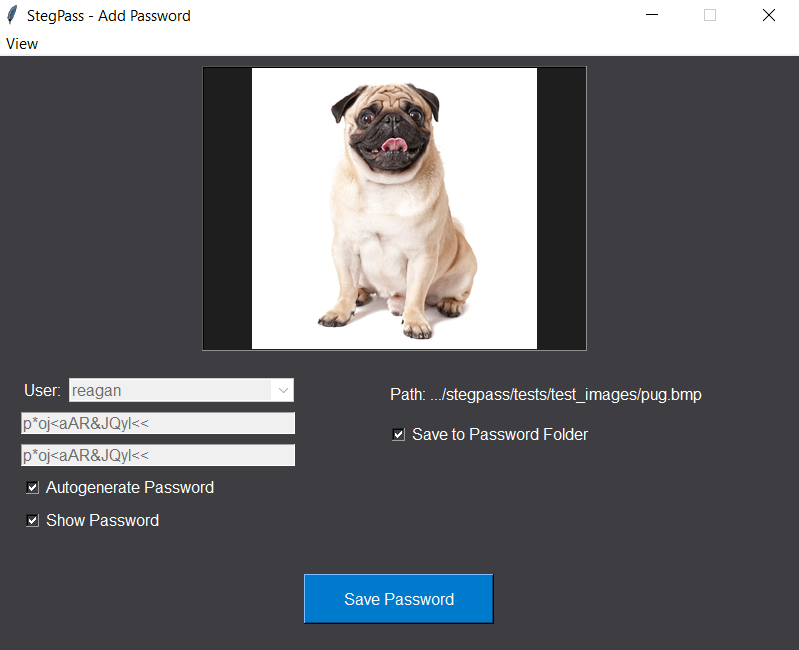
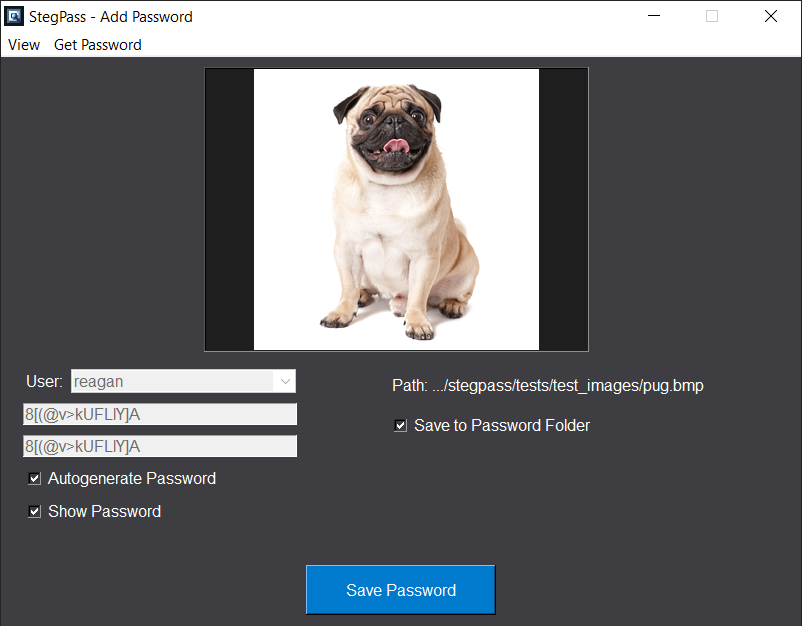
added changelog, and get password to the gui interface.

diff --git a/app/app/gui.py b/app/app/gui.py
@@ -7,11 +7,14 @@ app.py - Main GUI for the StegPass application
 import tkinter as tk
 from tkinter import ttk
 from tkinterdnd2 import TkinterDnD
+from threading import Thread
 
 # ? Project Imports
 from app.widgets.theme import THEME
 from app.pages.add_user import AddUserWindow
 from app.pages.add_password import AddPasswordWindow
+from app.utils.utils import get_path_to_icon
+from app.get_password import open_password_form
 
 class ManageUserWindow(tk.Frame):
     def __init__(self, master, **kwargs):
@@ -30,6 +33,7 @@ class Application(TkinterDnD.Tk):
         self.title("StegPass - Save Password")
         self.geometry(f"{THEME.WIDTH}x{THEME.HEIGHT}")
         self.resizable(False, False)
+        self.iconbitmap(get_path_to_icon())
         
         # Set DPI awareness (makes the window look better on high resolution screens)
         try:
@@ -39,15 +43,16 @@ class Application(TkinterDnD.Tk):
             pass
 
         # Create a menu bar
-        menu_bar = tk.Menu(self)
-        self.config(menu=menu_bar)
+        self.menu_bar = tk.Menu(self)
+        self.config(menu=self.menu_bar)
 
         # Add options to the menu bar
-        file_menu = tk.Menu(menu_bar, tearoff=0)
-        menu_bar.add_cascade(label="View", menu=file_menu)
+        file_menu = tk.Menu(self.menu_bar, tearoff=0)
+        self.menu_bar.add_cascade(label="View", menu=file_menu)
         file_menu.add_command(label="Add User", command=self.show_add_user_page)
         file_menu.add_command(label="Manage User", command=self.show_manage_user_page)
         file_menu.add_command(label="Add Password", command=self.show_add_password_page)
+        self.menu_bar.add_command(label="Get Password", command=self.handle_get_password)
 
         # Create frames for each page
         self.pages = {}
@@ -64,7 +69,7 @@ class Application(TkinterDnD.Tk):
 
         # Place each frame in the same location; only one will be visible at a time
         for page in self.pages.values():
-            page.place(x=0, y=0, width=800, height=600)
+            page.place(x=0, y=0, width=THEME.WIDTH, height=THEME.HEIGHT)
 
         # Show the initial page
         self.show_add_user_page()
@@ -77,6 +82,16 @@ class Application(TkinterDnD.Tk):
 
     def show_add_password_page(self):
         self._show_page('add_password')
+    
+    def handle_get_password(self):
+        task_thread = Thread(target=open_password_form, args=(self.on_get_password_start, self.on_get_password_end))
+        task_thread.start()
+    
+    def on_get_password_start(self):
+        self.menu_bar.entryconfig("Get Password", state="disabled")
+    
+    def on_get_password_end(self):
+        self.menu_bar.entryconfig("Get Password", state="normal")
 
     def _show_page(self, page_name):
         for name, page in self.pages.items():

diff --git a/app/app/get_password.py b/app/app/get_password.py
@@ -9,11 +9,39 @@ import pyperclip
 import time
 from win10toast import ToastNotifier
 import ctypes
+from tkinter import filedialog
 
 # ? Project Imports
 from app.utils.utils import is_valid_sha256_hash, run_subprocess, fork_to_login, get_path_to_icon, show_error_message
 from app.utils.utility_fetcher import TargetType, UtilityFetcher
 from app.utils.config import SP_BUILD_TYPE
+
+def open_password_form(on_start, on_end):
+    """ Opens a file dialog to select an image file and retrieves a password from it
+
+    Args:
+        on_start (func): The function to call when the password retrieval process starts
+        on_end (func): The function to call when the password retrieval process ends
+    """
+    
+    # Create a file dialog to select an image file
+    on_start()
+    image_path = filedialog.askopenfilename(defaultextension=".bmp", filetypes=[("BMP files", "*.bmp")])
+    
+    if not image_path:
+        on_end()
+        return
+    
+    # Try to get the password from the image file    
+    exit_code, output = get_password(image_path)
+    on_end()
+    
+    if exit_code == 0:
+        notify_user(output)
+    elif exit_code == 4:
+        show_error_message("Could not recover password.")
+    else:
+        show_error_message(output)
 
 def get_password(image_path, user_hash = None) -> tuple[int, str]:
     """ Retrieves a password from an image file

diff --git a/scripts/release-app/create_release.py b/scripts/release-app/create_release.py
@@ -180,6 +180,15 @@ def save_release_config(release, config):
     with open(save_path, "w") as f:
         config.write(f)
         
+def move_changelog(release):
+    """ Moves the changelog to the release folder.
+
+    Args:
+        release (str): The path to the release folder.
+    """
+    print("Moving changelog to release folder...")
+    shutil.copy2(os.path.join(ROOT_DIR, 'CHANGELOG.md'), os.path.join(release, 'CHANGELOG.md'))
+        
 def copy_icon(release):
     """ Copies the icon to the release folder.
 
@@ -199,6 +208,7 @@ if __name__ == '__main__':
     copy_utility_files(release_dir)
     save_release_config(release_dir, config)
     copy_icon(release_dir)
+    move_changelog(release_dir)
     
 else:
     print('create_release.py should be run as the main script.')

diff --git a/app/app/login.py b/app/app/login.py
@@ -8,7 +8,7 @@ from tkinterdnd2 import TkinterDnD
 # Project Imports
 from app.widgets.theme import THEME
 from app.utils.user_manager import UserManager
-from app.utils.utils import sha256_hash, show_error_message
+from app.utils.utils import sha256_hash, show_error_message, get_path_to_icon
 
 class Application(TkinterDnD.Tk):
     def __init__(self, *args, **kwargs):
@@ -17,6 +17,7 @@ class Application(TkinterDnD.Tk):
         self.geometry(f"{450}x{225}")
         self.resizable(False, False)
         self.config(bg=THEME.BG)
+        self.iconbitmap(get_path_to_icon())
         
         # Set DPI awareness (makes the window look better on high resolution screens)
         try:

diff --git a/app/app/pages/add_password.py b/app/app/pages/add_password.py
@@ -21,7 +21,7 @@ class AddPasswordWindow(tk.Frame):
 
         # Show the PasswordForm below the drag and drop widget
         self.password_form = PasswordForm(self, bg='lightgrey')
-        self.password_form.place(x=THEME.WINDOW_PADDING, y=half_height + (2 * THEME.WINDOW_PADDING), width=THEME.WIDTH - (2 * THEME.WINDOW_PADDING), height=half_height)
+        self.password_form.place(x=THEME.WINDOW_PADDING, y=half_height + (THEME.WINDOW_PADDING), width=THEME.WIDTH - (2 * THEME.WINDOW_PADDING), height=half_height)
 
     def update_image_name(self, file_path):
         self.password_form.update_image_path(file_path)

diff --git a/README.md b/README.md
@@ -1,6 +1,6 @@
 <div style="display: flex; align-items: center;">
-    <h1 style="margin-right: 20px; margin-bottom: 0;">StegPass - Password Manager</h1>
     <img src="docs/logo.png" alt="Logo" width="75" style="margin-bottom: 0;">
+    <h1 style="margin-left: 20px; margin-bottom: 0;">StegPass - Password Manager</h1>
 </div>
 
 ## What is it?
@@ -21,17 +21,16 @@ methods to hide your passwords, they cannot be extracted through any standard se
 ### 2. Simplified Storage
 
 By using stegonography to store your passwords, you can basically store your passwords wherever you want. Your
-passwords aren't store in some clustered database, making them easily accessible to you at any time. Moreover,
+passwords aren't stored in some clustered database, making them easily accessible to you at any time. Moreover,
 this decentralized approach allows you to transfer your passwords with no concerns about the medium by which 
 you do it. Send your passwords in email, store them on the cloud, at the end of the day, its just an image file.
 
 ### 3. It's Fun
 
 Add personality to your passwords, choose images that resonate with you and your relationship with whatever service
-you are storing passwords for. For me, I store my Facebook password in an Mark Zuckerburg selfie. Moreover, this
-adds a unique layer of security to your passwords, because perhaps only you can associate some image with some
-service. Even if a hacker could find your password in the image file, they would have no idea what account and
-website it is for (assuming those are omitted from the image and filename).
+you are storing passwords for. Moreover, this adds a unique layer of security to your passwords, because perhaps 
+only you can associate some image with some service. Even if a hacker could find your password in the image file, 
+they would have no idea what account and website it is for (assuming those are omitted from the image and filename).
 
 ## How does it work?
 
@@ -46,10 +45,9 @@ the operating system won't even detect these changes as the file size typically 
     <img src="docs/example_usage1.png" alt="Example Usage 1" width="500" style="margin-bottom: 0;">
 </div>
 
-After a password is stored in an image, you can recover it at any time by using our command line tool (we are quickly creating
-a simplified solution). This will securely copy the password to your clipboard, and you can simply paste it into the login
-screen that you need it for. Your password is removed from the clipboard after 30 seconds, and does not get cached by any
-external service.
+After a password is stored in an image, you can recover it at any time by clicking `Get Password` in the GUI. This will securely 
+copy the password to your clipboard, and you can simply paste it into the login screen that you need it for. Your password is 
+removed from the clipboard after 30 seconds, and does not get cached by any external service.
 
 <div style="display: flex; align-items: center;">
     <img src="docs/example_usage2.png" alt="Example Usage 2" width="500" style="margin-bottom: 0;">

diff --git a/scripts/release-app/CHANGELOG.md b/scripts/release-app/CHANGELOG.md
@@ -1,0 +1,23 @@
+# Changelog
+
+All notable changes to StegPass will be documented in this file.
+
+## [Unreleased]
+
+### Added
+
+- `Get Password` to the gui to make it MUCH easier to retreive passwords from images
+- This CHANGELOG to more easily document changes between versions
+- StegPass icon is now present in the application
+
+### Fixed
+
+- A formatting bug in the `Add Password` form that moves the button off the screen.
+
+## [0.0.1-alpha] - 6/12/2024
+
+### Added
+
+- stegpass.exe `gui`: the main executable to run the application. This will launch the main GUI used to create new accounts and passwords.
+- stegpass.exe `cli`: when this is run in the command line with the arguments `--password <path_to_file>` it will try to extract a password from the image file.
+- utilities: standalone executables that work under the hood with StegPass to handle steganography, encryption, and other security measures.
